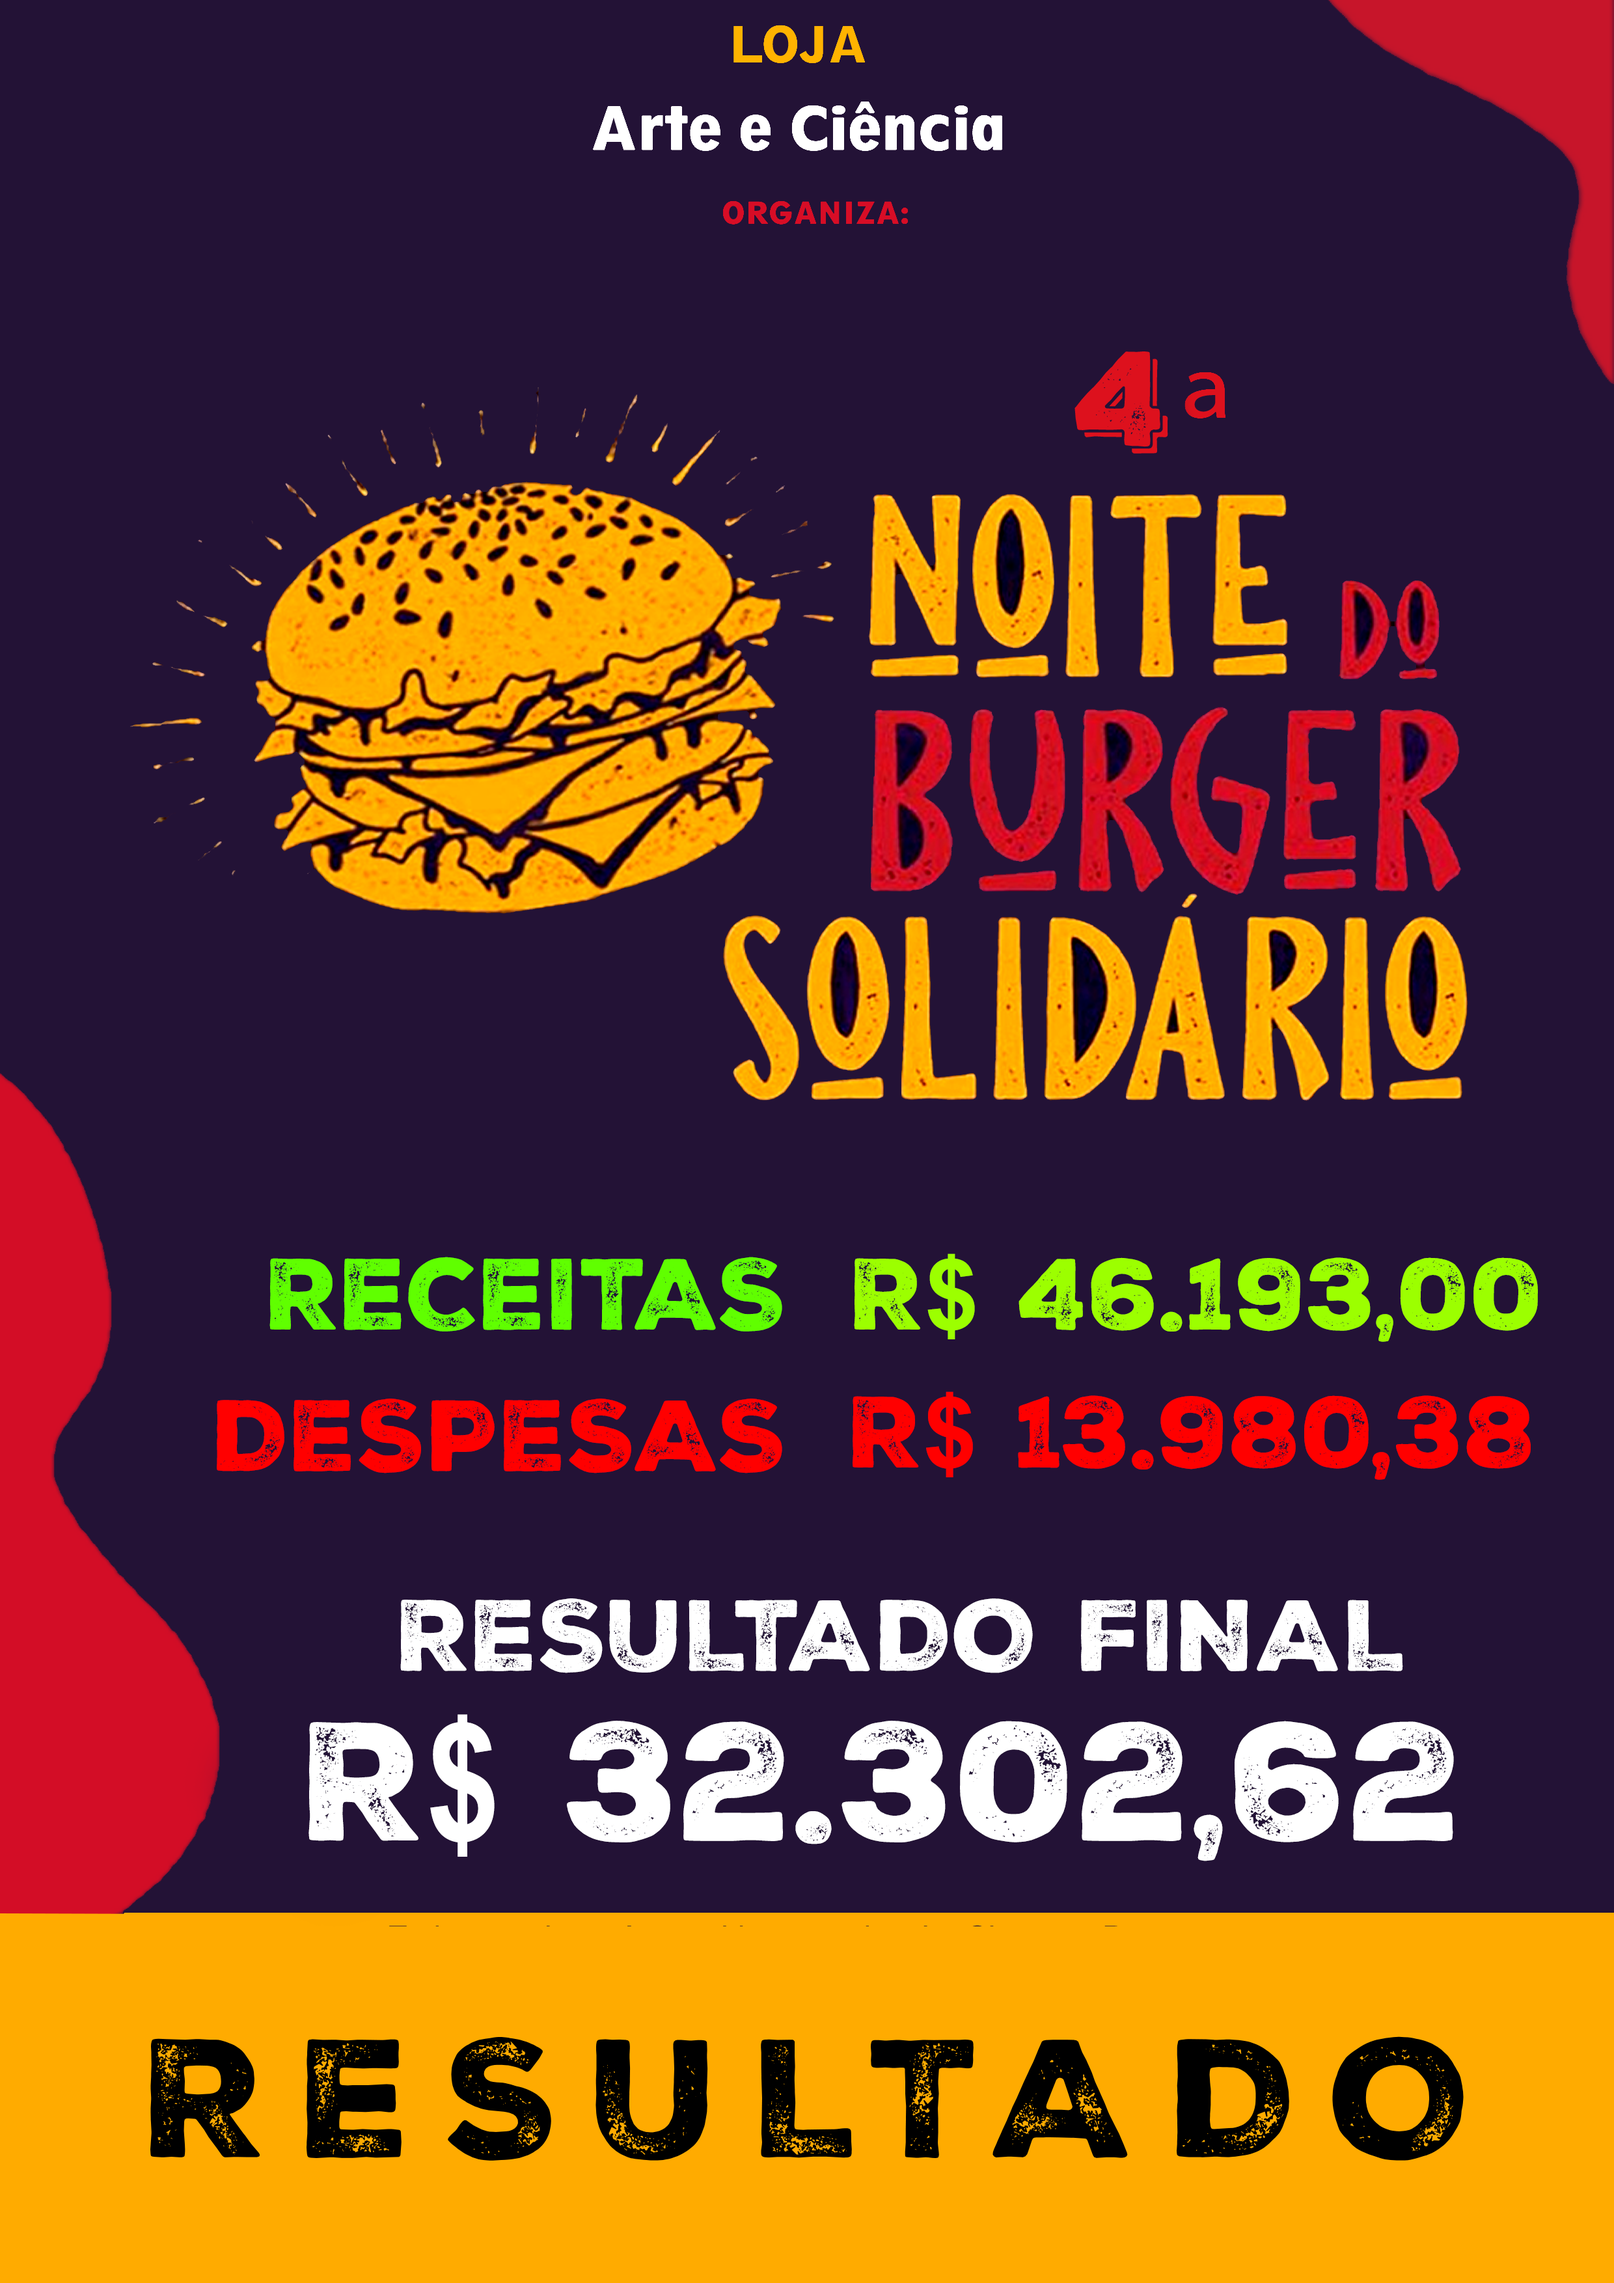
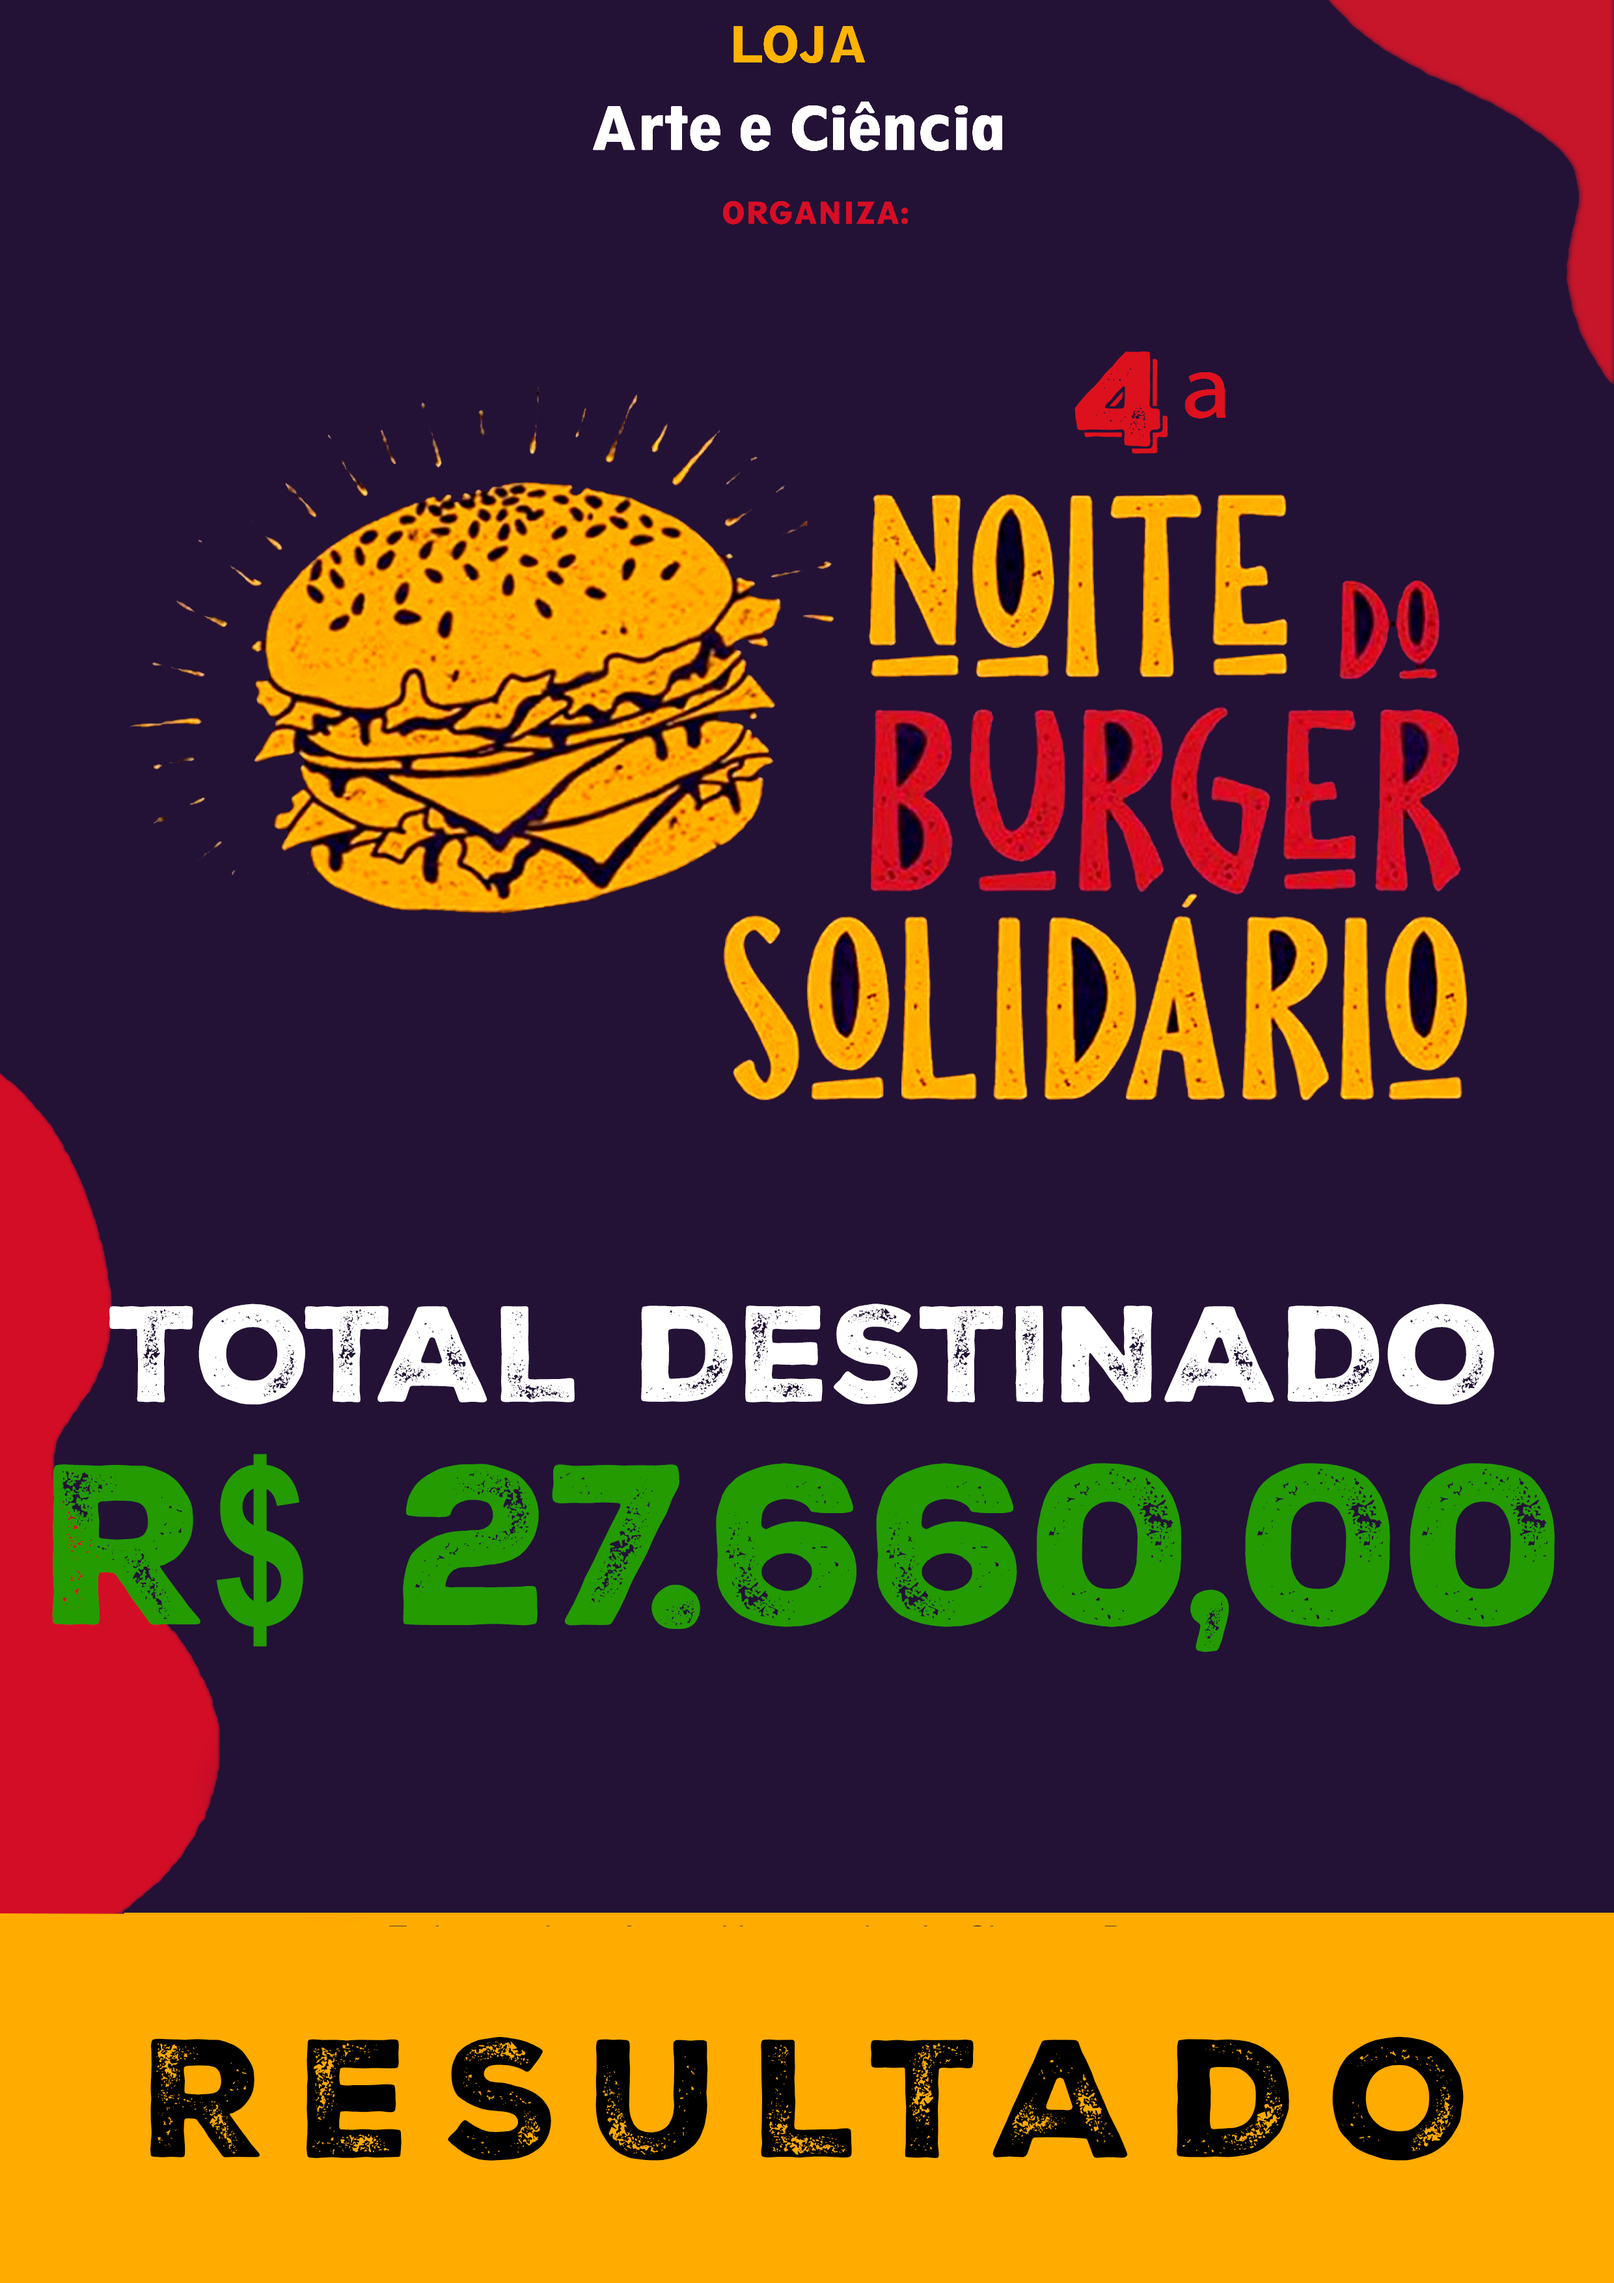
Ajustes 2024

Changed region(s): [[0.031, 0.5282, 0.9625, 0.8079]]

diff --git a/wwwroot/index.html b/wwwroot/index.html
@@ -67,13 +67,9 @@
             </div>
 
             <div class="sponsors-title-1" font-size: 1.2em; style="color: white; margin-top: 10px; margin-bottom: 10px;">
-                Graças à generosidade e ao trabalho árduo de todos, o 5º Burger Solidário foi um sucesso incrível, arrecadando <b>R$ 37.260,21</b>,
+                Graças à generosidade e ao trabalho árduo de todos, o 5º Burger Solidário foi um sucesso incrível, destinando a doação de <b>R$ 35.760,21</b>,
                 superando o evento anterior em aproximadamente <b>34,71%</b>!
             </div>
-
-
-
-
 
         </div>
 
